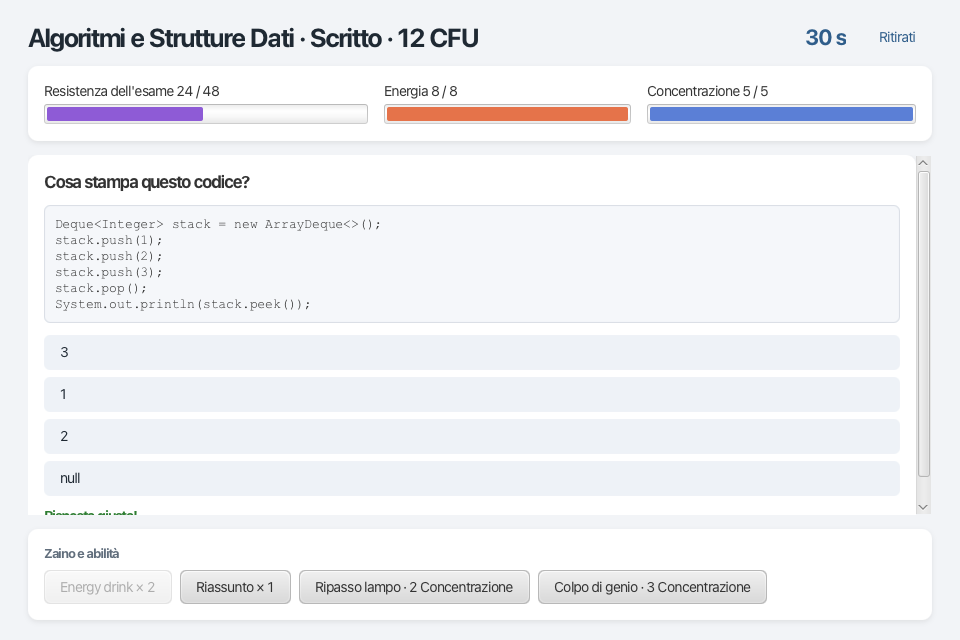
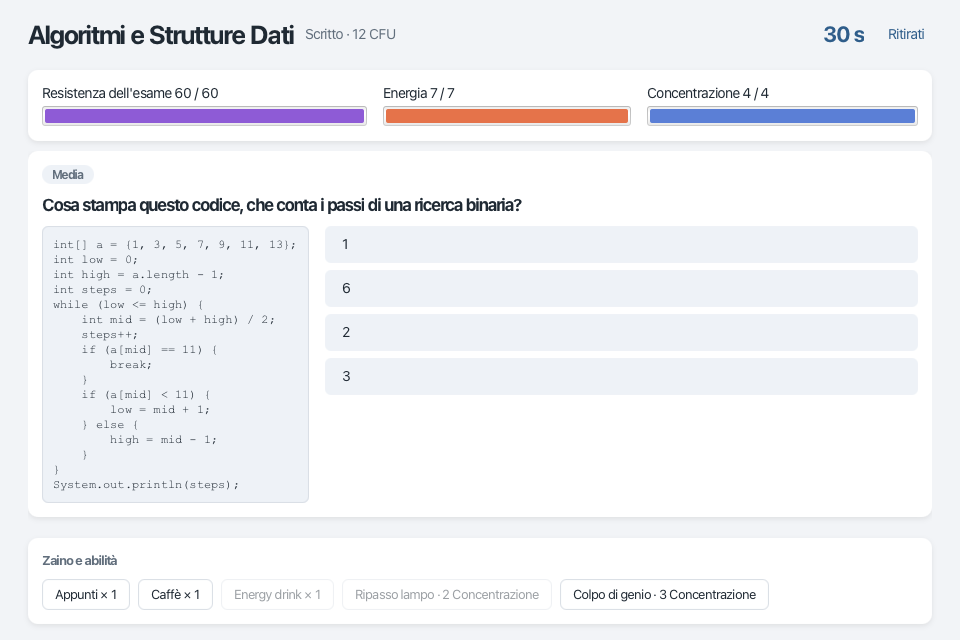
docs: screenshot della v0.2 (anche Come si gioca, esito e laurea) in README e Wiki

diff --git a/docs/wiki/Interfaccia-grafica.md b/docs/wiki/Interfaccia-grafica.md
@@ -8,9 +8,15 @@ volutamente semplice: sfondo chiaro, schede bianche, un solo colore d'accento.
 
 ![Menu con le partite salvate](../images/menu.png)
 
+![Come si gioca: la prima delle sette pagine](../images/come-si-gioca.png)
+
 ![Sessione: esami con il loro stato, statistiche, libretto e zaino](../images/sessione.png)
 
-![Esame scritto: domanda con lo snippet di codice, timer, barre, oggetti e abilità](../images/esame.png)
+![Esame scritto: difficoltà, domanda con lo snippet di codice accanto alle opzioni, timer, barre, oggetti e abilità](../images/esame.png)
+
+![Esito di un esame superato](../images/esito.png)
+
+![Laurea: libretto, media ponderata e voto di laurea](../images/laurea.png)
 
 Le immagini si rigenerano da un programma che apre le schermate con i contenuti veri e ne
 salva l'istantanea (`Scene.snapshot`), senza mostrare la finestra.

diff --git a/README.md b/README.md
@@ -6,9 +6,11 @@ uno scontro a turni in cui si "combatte" rispondendo a domande vere sulla materi
 statistiche, oggetti e abilità che influenzano lo scontro. Gli esami superati entrano nel
 libretto con voto e CFU; superata tutta la sessione, lo studente si laurea.
 
-| Menu | Sessione | Esame |
+| Menu | Come si gioca | Sessione |
 |---|---|---|
-| ![Menu](docs/images/menu.png) | ![Sessione](docs/images/sessione.png) | ![Esame](docs/images/esame.png) |
+| ![Menu](docs/images/menu.png) | ![Come si gioca](docs/images/come-si-gioca.png) | ![Sessione](docs/images/sessione.png) |
+| **Esame** | **Esito** | **Laurea** |
+| ![Esame](docs/images/esame.png) | ![Esito](docs/images/esito.png) | ![Laurea](docs/images/laurea.png) |
 
 ---
 
